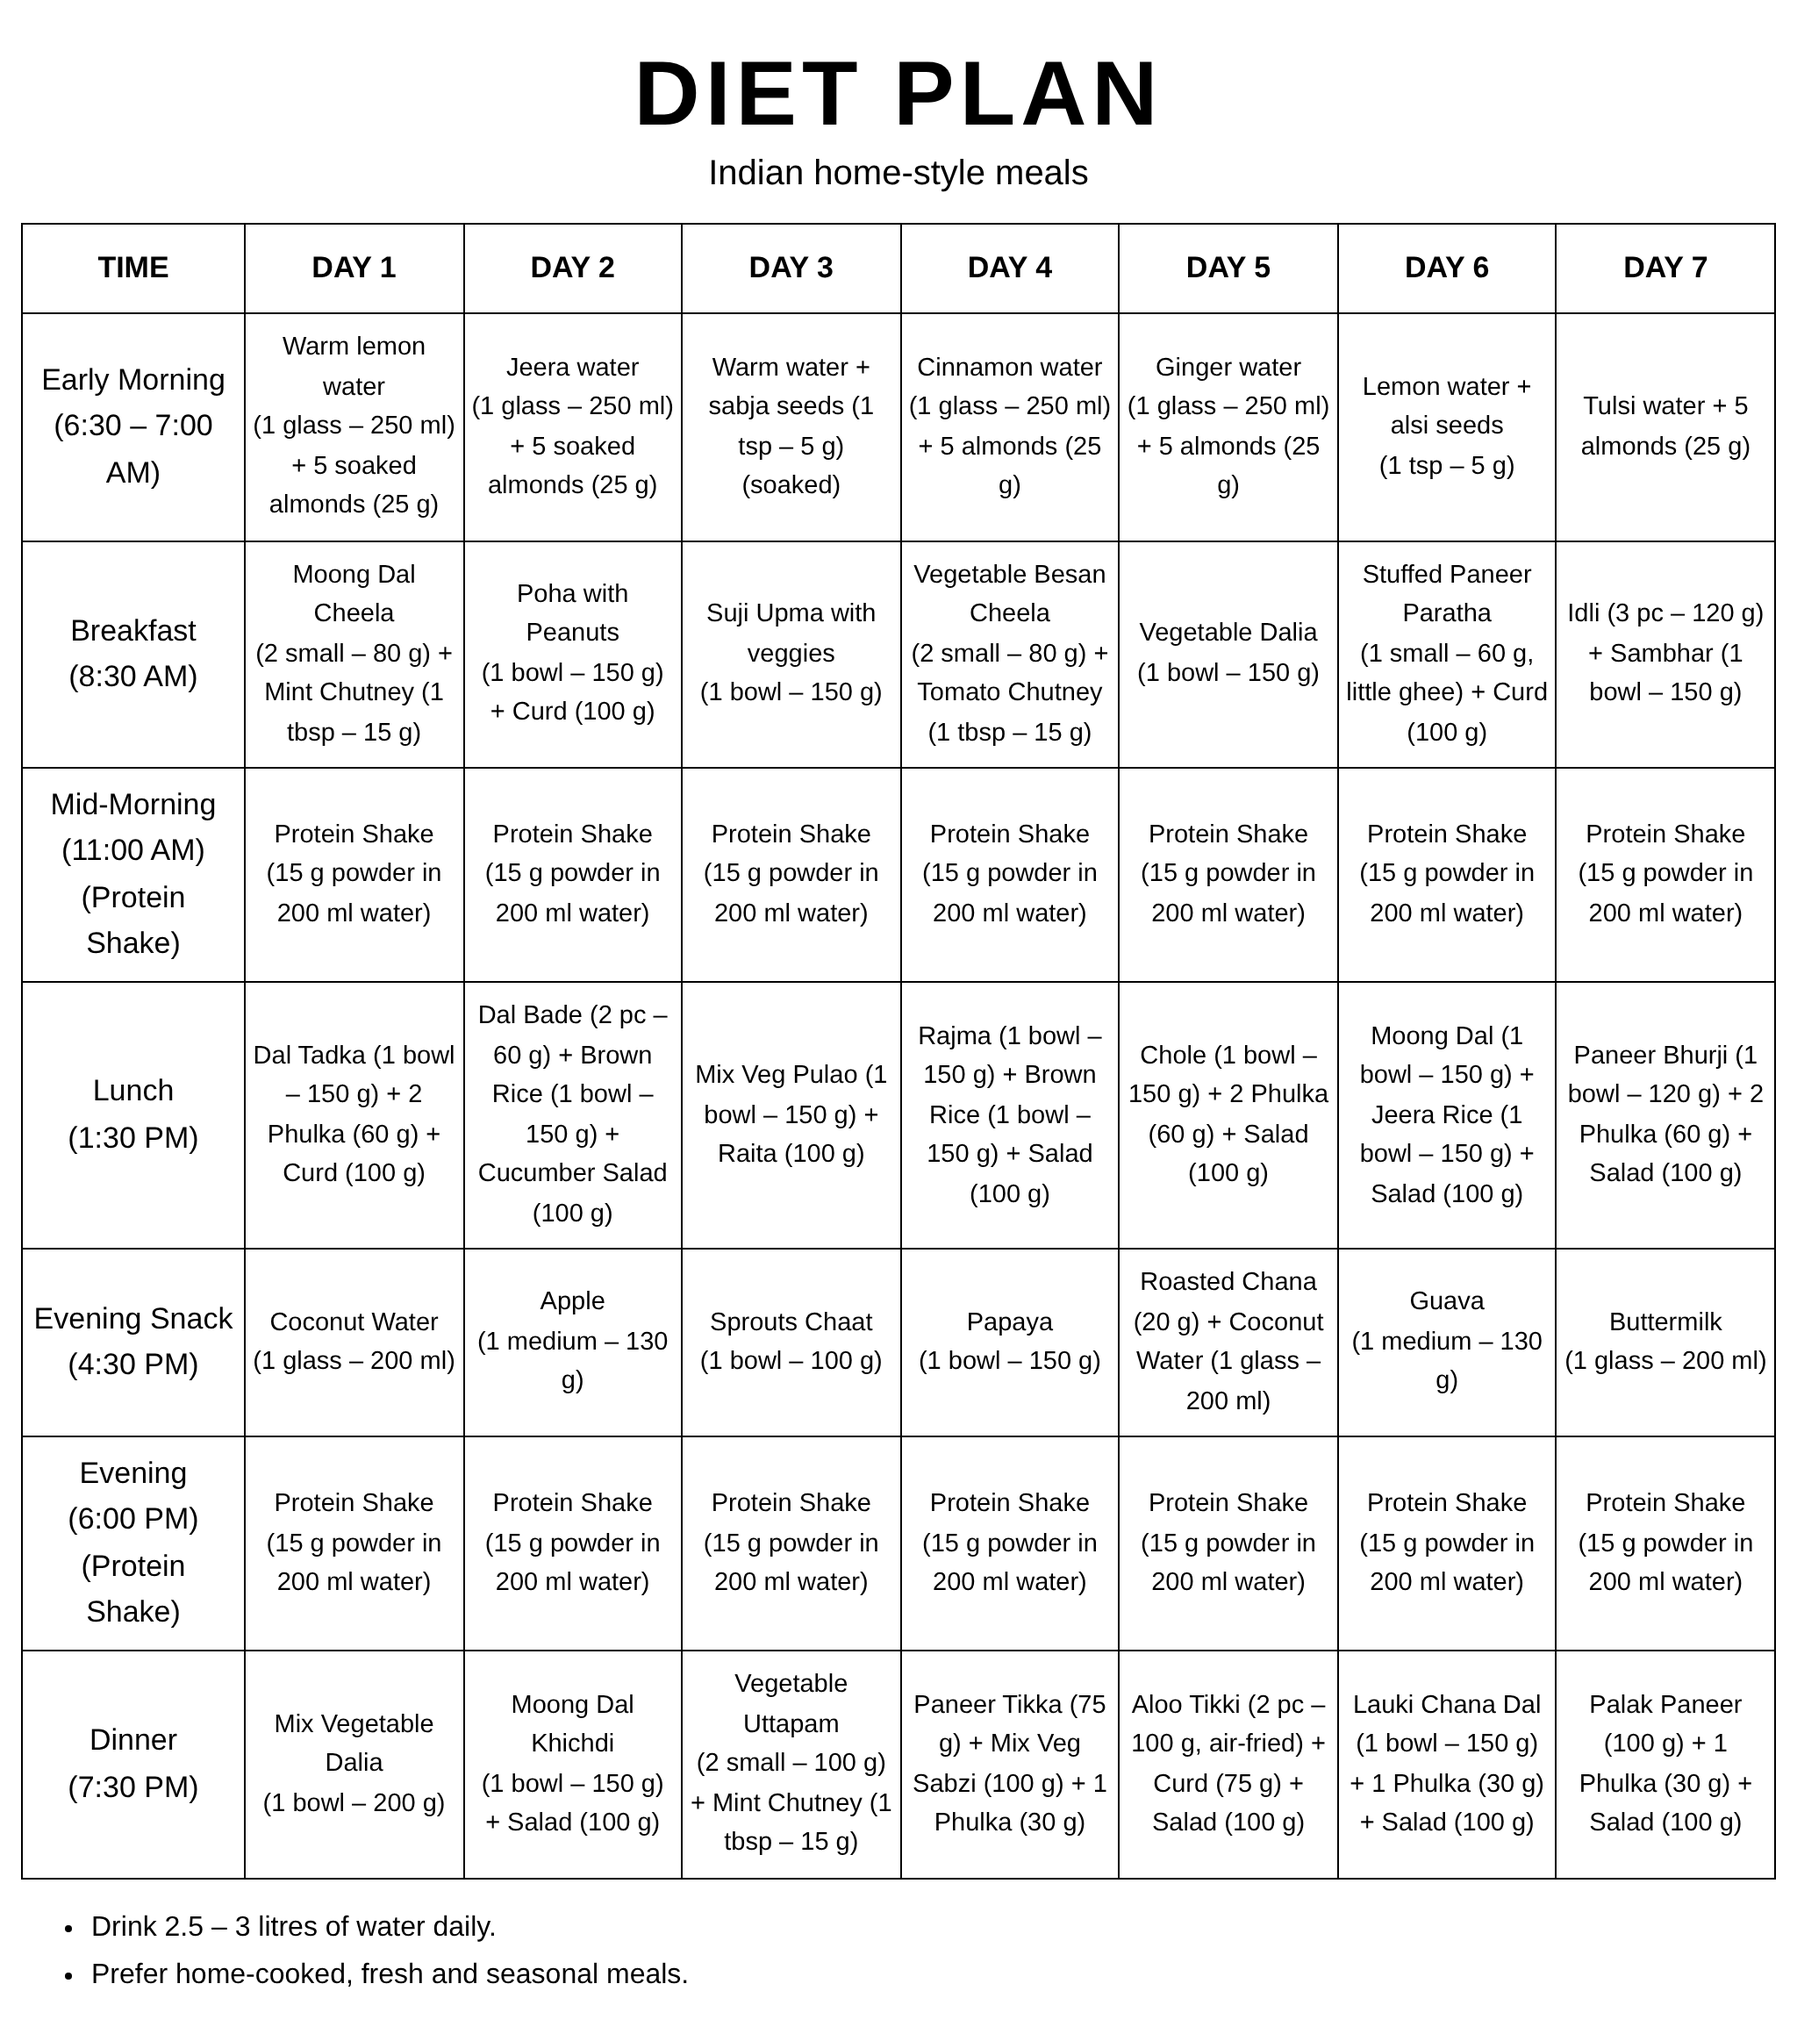
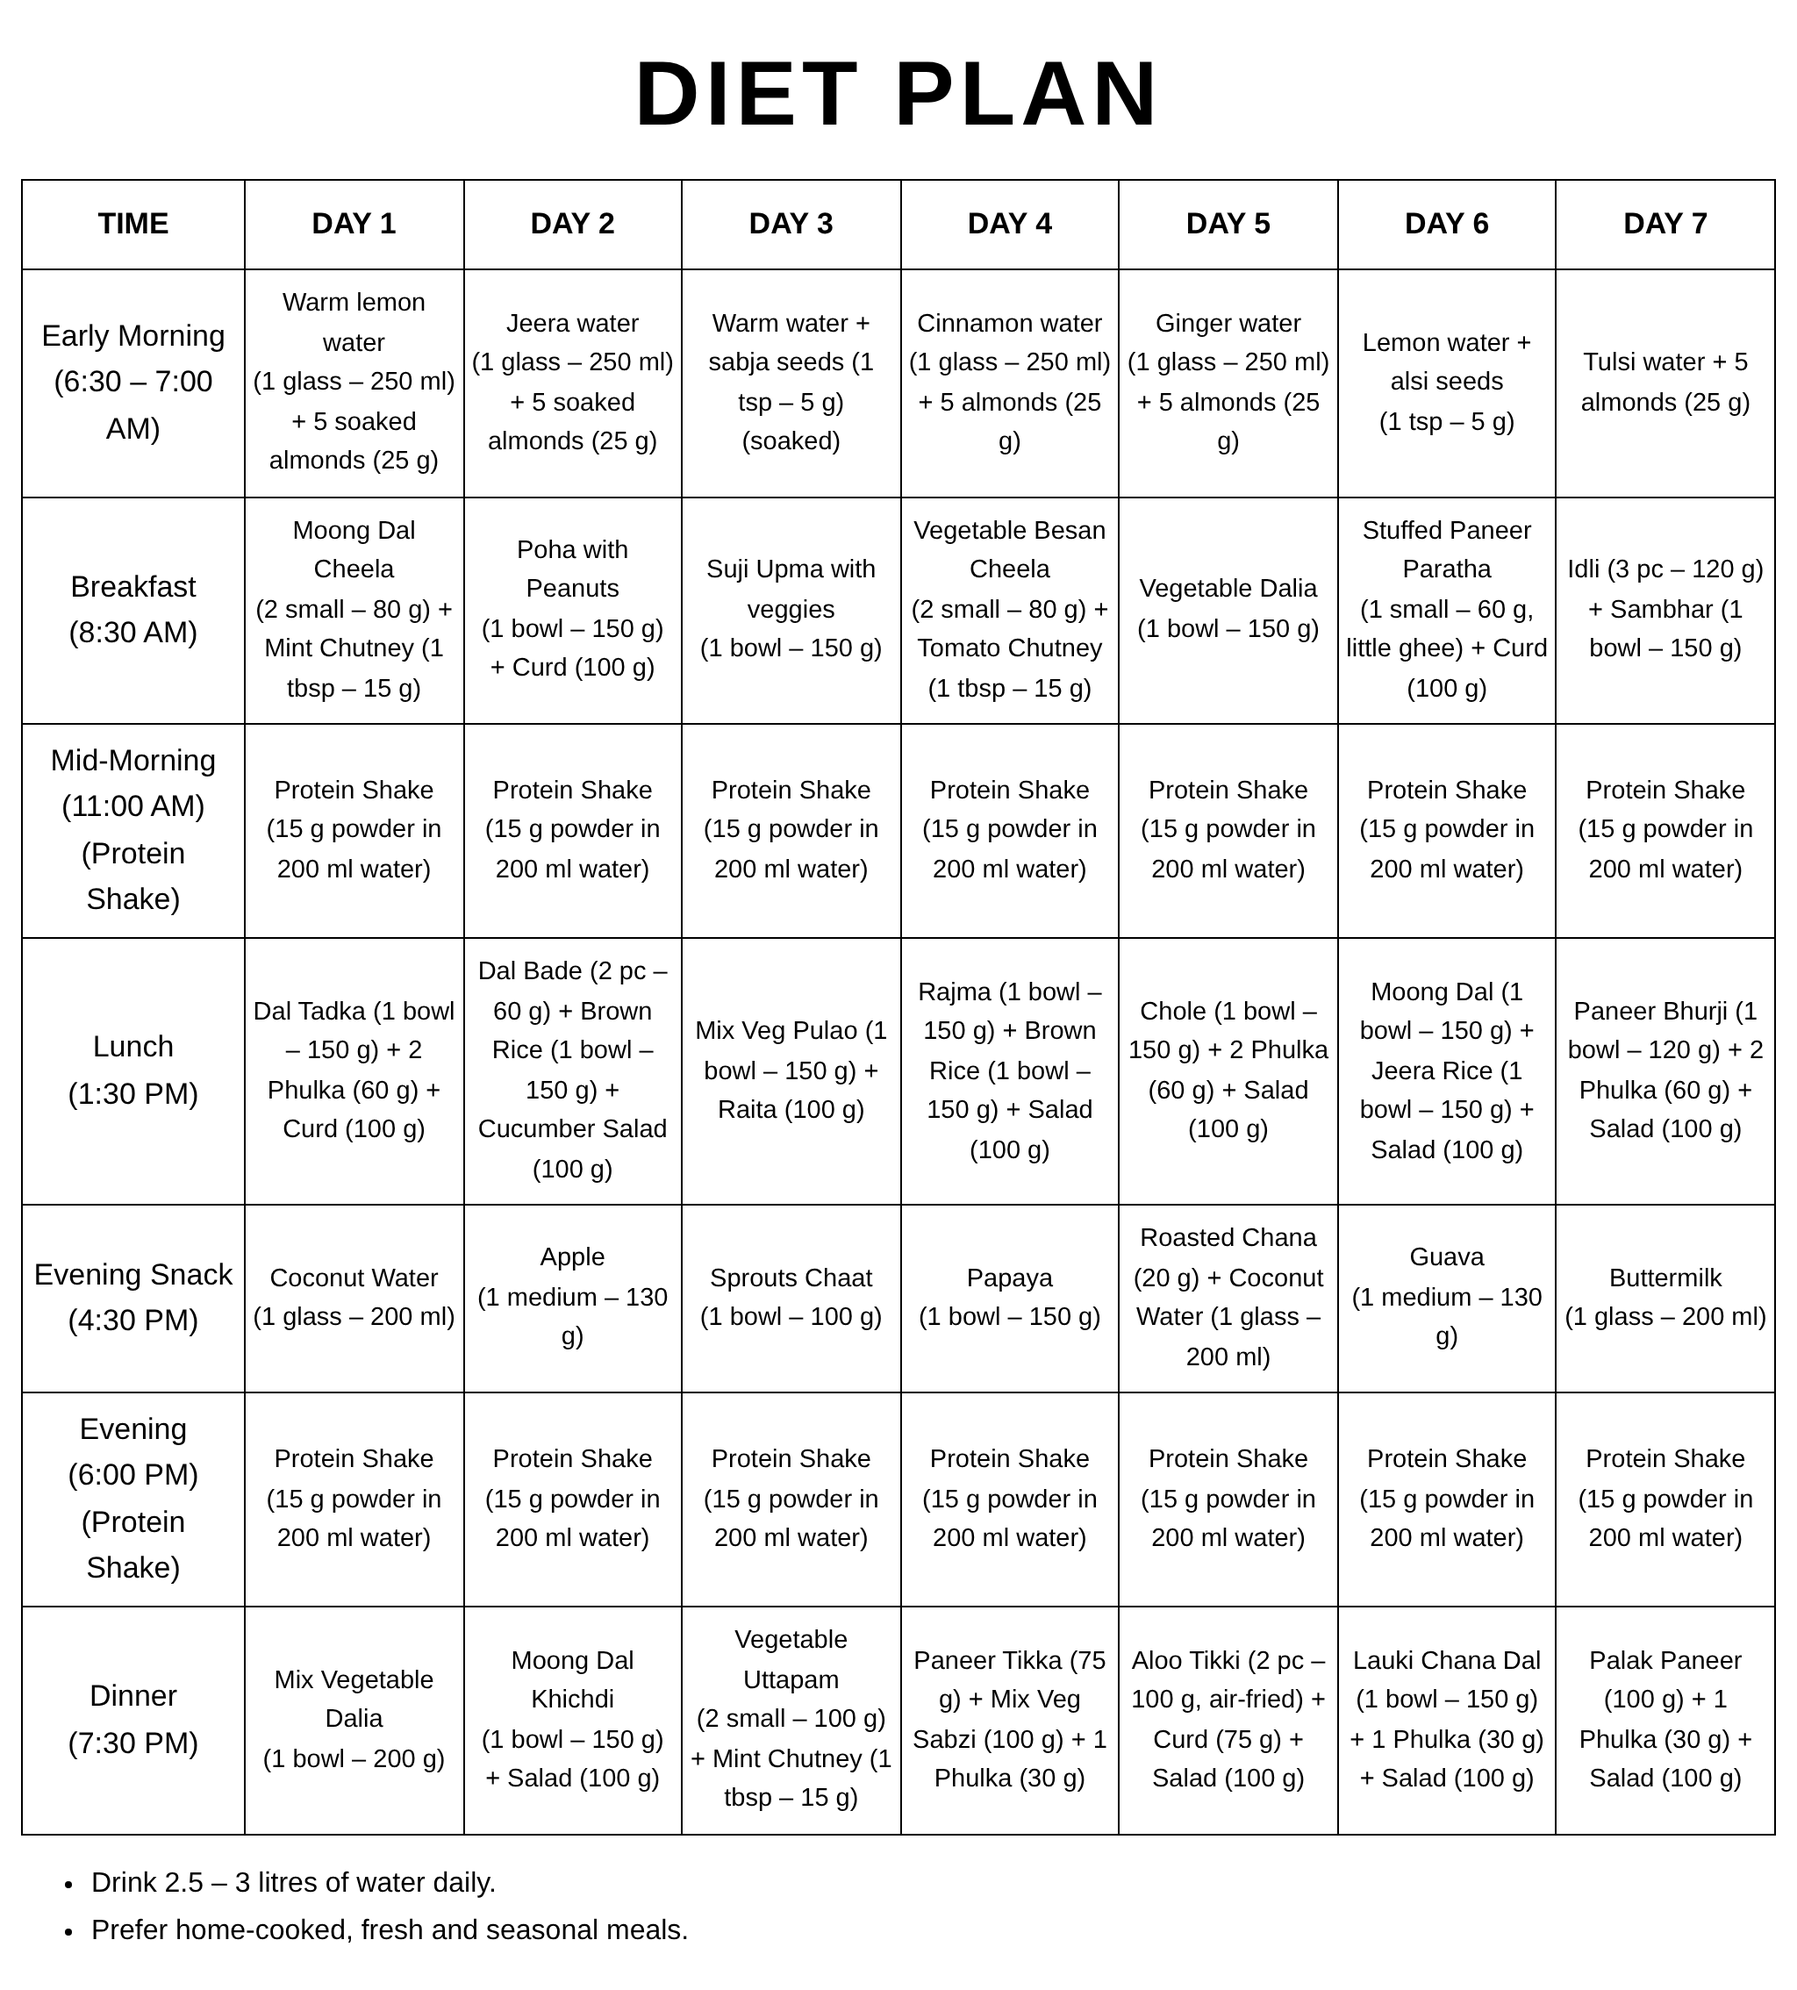
Indian diet plan: remove subheading
Claude-Session: https://claude.ai/code/session_01Hb85QWsiyrBDrnGKrgDRLs

diff --git a/charts/diet-plan-indian.html b/charts/diet-plan-indian.html
@@ -4,7 +4,7 @@
 <style>
 body{margin:0;background:#fff;font-family:Arial,Helvetica,sans-serif;color:#000}
 .page{width:1024px;margin:0 auto;padding:24px 12px 20px;box-sizing:border-box}
-h1{text-align:center;font-size:52px;letter-spacing:3px;margin:0;font-weight:bold}
+h1{text-align:center;font-size:52px;letter-spacing:3px;margin:0 0 18px;font-weight:bold}
 .sub{text-align:center;font-size:20px;margin:4px 0 16px;}
 table{width:100%;border-collapse:collapse;table-layout:fixed}
 th,td{border:1px solid #000;text-align:center;vertical-align:middle;padding:8px 4px;font-size:14.5px;line-height:1.55}
@@ -15,7 +15,6 @@ tr.skip td.x{font-size:18px;}
 ul{margin:14px 0 0 40px;padding:0;font-size:16px;line-height:1.7}
 </style></head><body><div class="page">
 <h1>DIET PLAN</h1>
-<div class="sub">Indian home-style meals</div>
 <table>
 <tr><th>TIME</th><th>DAY 1</th><th>DAY 2</th><th>DAY 3</th><th>DAY 4</th><th>DAY 5</th><th>DAY 6</th><th>DAY 7</th></tr>
 <tr><td>Early Morning<br>(6:30 – 7:00 AM)</td><td>Warm lemon water<br>(1 glass – 250 ml) + 5 soaked almonds (25 g)</td><td>Jeera water<br>(1 glass – 250 ml) + 5 soaked almonds (25 g)</td><td>Warm water + sabja seeds (1 tsp – 5 g) (soaked)</td><td>Cinnamon water<br>(1 glass – 250 ml) + 5 almonds (25 g)</td><td>Ginger water<br>(1 glass – 250 ml) + 5 almonds (25 g)</td><td>Lemon water + alsi seeds<br>(1 tsp – 5 g)</td><td>Tulsi water + 5 almonds (25 g)</td></tr>
